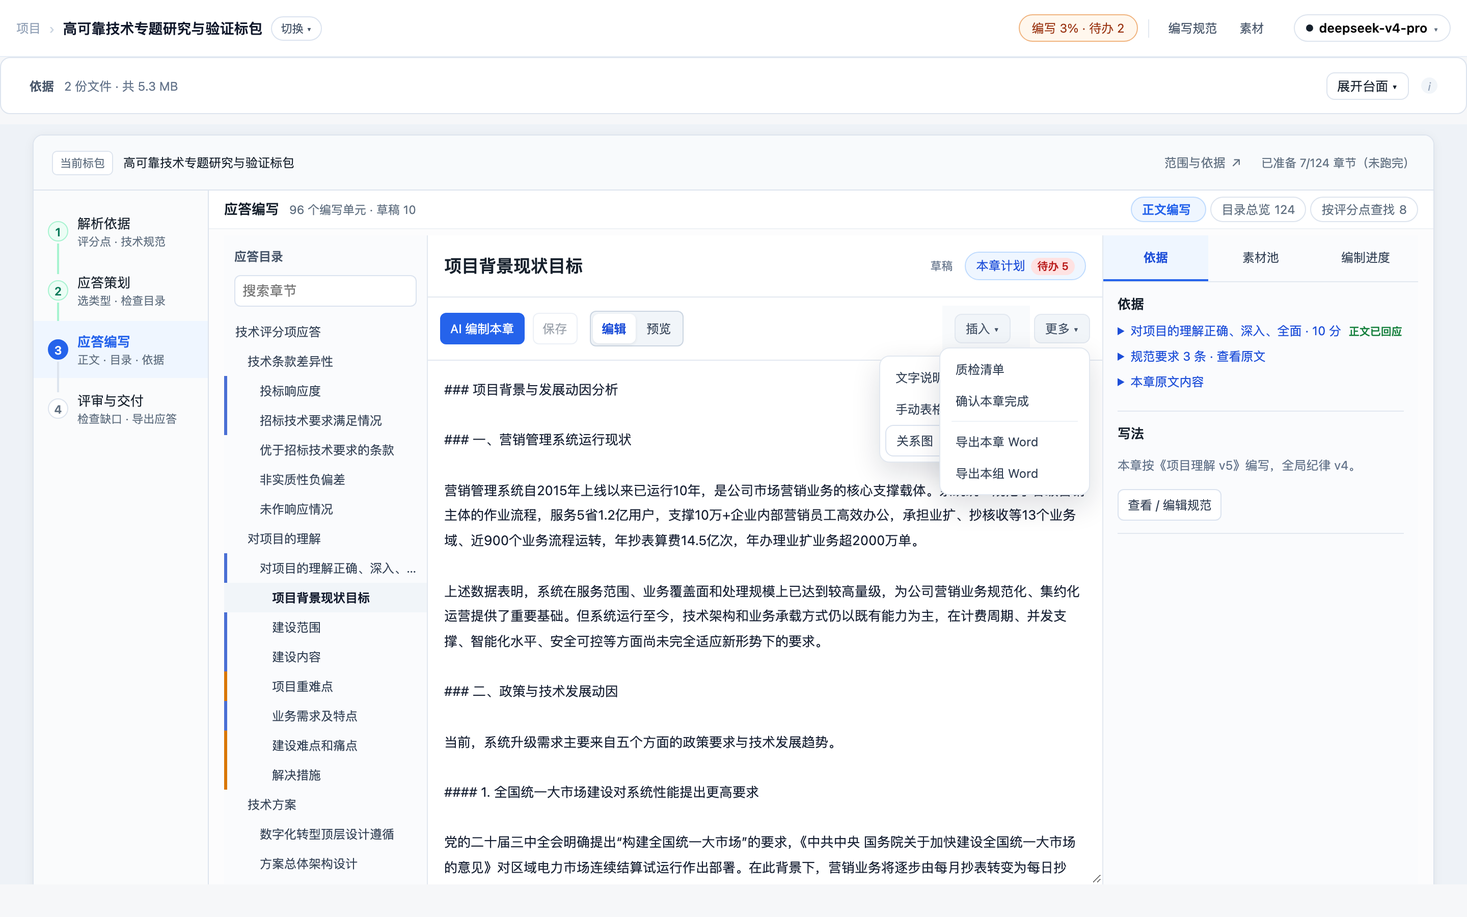
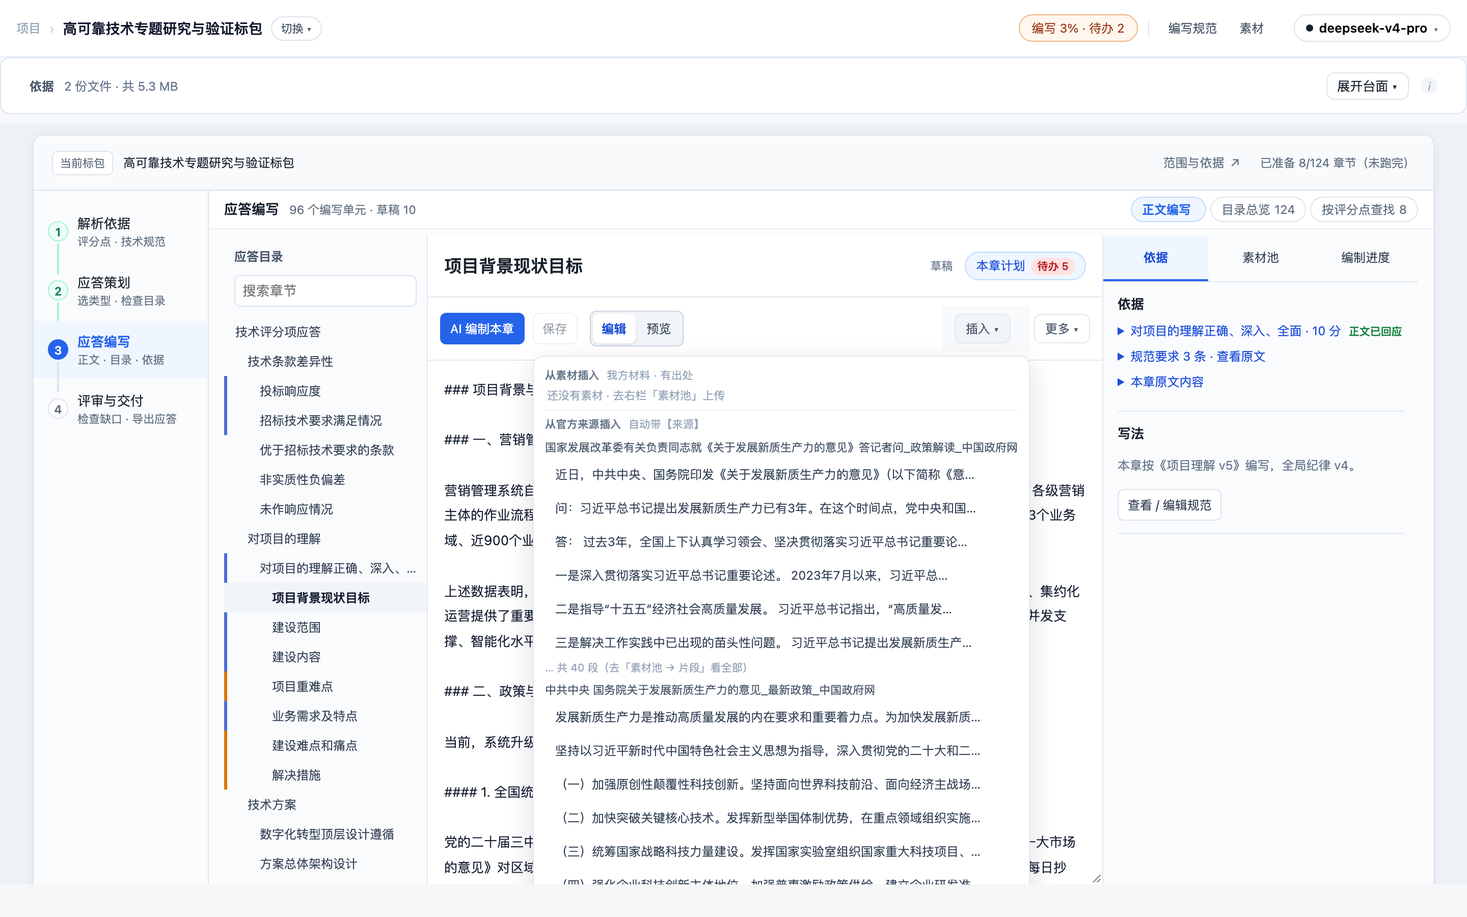
feat(P0): 插入菜单改为"按来源"—— 从素材 / 从官方来源 / 插入结构
按《插入功能-必要性与方式》方案实施 P0。

## 菜单重构（原来按内容类型：文字说明/手动表格/关系图）
```
插入 ▾
├─ 从素材插入        我方材料 · 有出处
│    每个素材 → [摘录·第N页] [图片]（未解析的显示"未解析"）
├─ 从官方来源插入    自动带【来源】
│    每条来源 → 最多 6 个片段按钮（正文开头 34 字 + 悬停看全文），
│    已选片段标 ★；显示"共 N 段，去素材池看全部"
└─ 插入结构          模板 · 需人工补齐
     对比表 / 响应表、关系图骨架
```

## 插入行为
- 光标处插入；**光标落在插入内容末尾**（不选中）
  —— 选中会导致下一次插入把上一次的内容替换掉（自检实测踩到）
- 从官方来源插入自动追加 `【来源：标题（机构 · 日期）】`
- 插图用 `:::figure 图注` 体裁（导出可编号）
- 素材未解析 / 无图片 / 片段为空 → 明确提示，不静默失败
- 插入后 toast 提示可 ⌘Z 撤销

## 自检（33 条）
- 插入菜单按来源分组（素材/官方来源/结构）
- 从官方来源插入片段（自动带【来源】）：正文变长且含「【来源」
- 插入结构模板可用（表格）：正文继续变长、状态无报错

`bash scripts/check.sh` → 33/33 通过（v313）

Changed region(s): [[0.3438, 0.3733, 0.75, 0.9644], [0.7812, 0.1556, 0.8438, 0.1867]]

diff --git a/frontend/assets/mode-outline.js b/frontend/assets/mode-outline.js
@@ -2,9 +2,9 @@
    抽成模块的目的：两段内联脚本有 90 个同名顶层标识符 + 18 个重复 DOM id，
    同页拼接必然互相覆盖；各自成为一个模块即各自一个作用域。
    本文件在抽取时**未改任何逻辑**。 */
-import {mountChapterStudio, exportDocument} from './chapter-studio.mjs?v=20261016-v310';
-import { api } from './api.js?v=20261016-v310';
-import { specContentHtml } from './spec-content.mjs?v=20261016-v310';
+import {mountChapterStudio, exportDocument} from './chapter-studio.mjs?v=20261016-v313';
+import { api } from './api.js?v=20261016-v313';
+import { specContentHtml } from './spec-content.mjs?v=20261016-v313';
 // 顶栏（项目名旁边那行「第 N 轮 · ...」）由共享壳 workspace.js 渲染。这里要把它
 // 改成**页面自己的真实状态**：checkpoint 的 stage 在准备中/编写准备完成后都停在
 // outline_review，只看它的话顶栏永远显示"待确认目录"（实测就是这个问题）。
@@ -12,7 +12,7 @@ import { workspace, renderWorkspaceChrome,
          REQUIREMENT_ROLES, SELECTABLE_REQUIREMENT_ROLES, ROLE_LABEL_SHARED, ROLE_HINT_SHARED,
          roleMismatchWarning, inferRoleFromFilename,
          uiAlert, uiConfirm,
-       } from './workspace.js?v=20261016-v310';
+       } from './workspace.js?v=20261016-v313';
 import { resolvePackageScope, buildOutlineTree, isOrphanedRun, activeStages, instructionDirty, newOutlineId, outlineSubtreeRange,
          moveOutlineNode, indentOutlineNode, outdentOutlineNode,
          moveManyOutlineNodes, indentManyOutlineNodes, outdentManyOutlineNodes,
@@ -31,7 +31,7 @@ import { resolvePackageScope, buildOutlineTree, isOrphanedRun, activeStages, ins
          // 章节状态投影：素材库 / 方案编辑 / 覆盖矩阵共用同一份判定（不再各算各的）
          chapterStage, chapterBadges, filterChapters, chapterFilterCounts,
          CHAPTER_STAGE_LABELS, evidenceByChapter, expandVisibleWithAncestors
-       } from './workspace-model.mjs?v=20261016-v310';
+       } from './workspace-model.mjs?v=20261016-v313';
 
 const params = new URLSearchParams(location.search);
 // projectId **只取数字部分**：链接被误写成 `?projectId=19**(Cmd+Shift+R)`（连带说明文字）
@@ -180,7 +180,7 @@ document.head.insertAdjacentHTML('beforeend', `<style>
 // 左栏章节树：行标记与「方案编辑」共用一份（2026-10-13 左栏归一）。
 // 此前两侧各拼一套（.ot-row / .doc-outline-item），数据投影虽已共用，
 // 但标记重复维护会漂移（workspace-model.mjs 注释里记着 "#undefined" 那次）。
-import { chapterNode, chapterBadgesHtml as sharedBadgesHtml } from './chapter-tree.mjs?v=20261016-v310';
+import { chapterNode, chapterBadgesHtml as sharedBadgesHtml } from './chapter-tree.mjs?v=20261016-v313';
 const blocksEmpty = document.getElementById('blocks-empty');
 const sidebarToc  = document.getElementById('sidebar-toc');
 const ringFill    = document.getElementById('ring-fill');

diff --git a/frontend/workbench.html b/frontend/workbench.html
@@ -4,7 +4,7 @@
     <meta charset="UTF-8" />
     <meta name="viewport" content="width=device-width, initial-scale=1.0" />
     <title>智能应标 · 材料撰写</title>
-    <link rel="stylesheet" href="./assets/styles.css?v=20261016-v310" />
+    <link rel="stylesheet" href="./assets/styles.css?v=20261016-v313" />
     <style>
       /* Outline pane */
       .workspace-shell .outline-pane {
@@ -2055,7 +2055,7 @@
     </style>
     <!-- Markdown 渲染（用于预览模式） -->
     <script src="https://cdn.jsdelivr.net/npm/marked@12.0.0/marked.min.js"></script>
-  <link rel="stylesheet" href="./assets/workspace.css?v=20261016-v310" />
+  <link rel="stylesheet" href="./assets/workspace.css?v=20261016-v313" />
   </head>
   <body>
   <script>
@@ -2500,18 +2500,18 @@
       </main>
     </div>
 
-    <script type="module" src="./assets/workbench.js?v=20261016-v310"></script>
+    <script type="module" src="./assets/workbench.js?v=20261016-v313"></script>
     <script type="module">
-      import { GenerateSession } from './assets/generate-session.js?v=20261016-v310';
-      import { initContextPanel } from './assets/context-panel.js?v=20261016-v310';
-      import { api } from './assets/api.js?v=20261016-v310';
-      import { request as workspaceRequest, refreshWorkspace, workspace, confirmChapterAction } from './assets/workspace.js?v=20261016-v310';
+      import { GenerateSession } from './assets/generate-session.js?v=20261016-v313';
+      import { initContextPanel } from './assets/context-panel.js?v=20261016-v313';
+      import { api } from './assets/api.js?v=20261016-v313';
+      import { request as workspaceRequest, refreshWorkspace, workspace, confirmChapterAction } from './assets/workspace.js?v=20261016-v313';
       // 提炼字段枚举 + 素材依据的**渲染片段**与 project-init 共用（见 workspace-model.mjs 注释）：
       // 性质徽标与出处行的实现在那边只有一份，两个页面不再各写一套（曾经因此漂移出
       // "每行显示 #undefined"）。
       import { CONSTRAINT_LEVELS, constraintLevelLabel,
                evidenceKindBadgeHtml, evidenceSourceLineHtml, evidenceSnippet,
-               chapterStage, CHAPTER_STAGE_LABELS } from './assets/workspace-model.mjs?v=20261016-v310';
+               chapterStage, CHAPTER_STAGE_LABELS } from './assets/workspace-model.mjs?v=20261016-v313';
       initContextPanel();
 
       // 素材抽屉：默认收起（写作时右栏就是正文本身），点工具栏「素材 n ▸」打开；
@@ -5575,6 +5575,6 @@
       })();
     })();
     </script>
-  <script type="module" src="./assets/workspace.js?v=20261016-v310"></script>
+  <script type="module" src="./assets/workspace.js?v=20261016-v313"></script>
   </body>
 </html>

diff --git a/frontend/three-mode.html b/frontend/three-mode.html
@@ -4,9 +4,9 @@
     <meta charset="UTF-8" />
     <meta name="viewport" content="width=device-width, initial-scale=1.0" />
     <title>AiBidding · Workbench Init State</title>
-    <link rel="stylesheet" href="./assets/response-outline.css?v=20261016-v310" />
-    <link rel="stylesheet" href="./assets/chapter-studio.css?v=20261016-v310" />
-    <link rel="stylesheet" href="./assets/styles.css?v=20261016-v310" />
+    <link rel="stylesheet" href="./assets/response-outline.css?v=20261016-v313" />
+    <link rel="stylesheet" href="./assets/chapter-studio.css?v=20261016-v313" />
+    <link rel="stylesheet" href="./assets/styles.css?v=20261016-v313" />
     <style>
 /* ── 三栏布局 ── */
 .init-layout {
@@ -3350,8 +3350,8 @@ body[data-view="matching"] .match-detail { display: block; }
   body[data-view="editor"] .ws-editor-layout { flex: 1 1 auto; min-height: 0; }
 
 </style>
-  <link rel="stylesheet" href="./assets/workspace.css?v=20261016-v310" />
-  <link rel="stylesheet" href="./assets/ui.css?v=20261016-v310" />   <!-- 组件最小集：最后加载以统一历史类名 -->
+  <link rel="stylesheet" href="./assets/workspace.css?v=20261016-v313" />
+  <link rel="stylesheet" href="./assets/ui.css?v=20261016-v313" />   <!-- 组件最小集：最后加载以统一历史类名 -->
   </head>
   <body data-view="outline" data-modes="outline,matching,editor">
     <div class="workspace-shell">
@@ -4062,16 +4062,16 @@ body[data-view="matching"] .match-detail { display: block; }
         if (skel) skel.hidden = true;
       }, 6000);
     </script>
-    <script type="module" src="./assets/workbench.js?v=20261016-v310"></script>
-    <script type="module" src="./assets/mode-dispatch.js?v=20261016-v310"></script>
+    <script type="module" src="./assets/workbench.js?v=20261016-v313"></script>
+    <script type="module" src="./assets/mode-dispatch.js?v=20261016-v313"></script>
     <!-- 动态 import：失败可捕获并上报（静态 import 失败无法捕获，会让整页静默不执行） -->
     <script type="module">
-      for (const mod of ['./assets/mode-outline.js?v=20261016-v310',
-                        './assets/mode-editor.js?v=20261016-v310']) {
+      for (const mod of ['./assets/mode-outline.js?v=20261016-v313',
+                        './assets/mode-editor.js?v=20261016-v313']) {
         try { await import(mod); }
         catch (err) { window.__bootErrors.push(`模块加载失败 ${mod}：${err?.message || err}`); }
       }
     </script>
-  <script type="module" src="./assets/workspace.js?v=20261016-v310"></script>
+  <script type="module" src="./assets/workspace.js?v=20261016-v313"></script>
   </body>
 </html>

diff --git a/frontend/project-init.html b/frontend/project-init.html
@@ -4,7 +4,7 @@
     <meta charset="UTF-8" />
     <meta name="viewport" content="width=device-width, initial-scale=1.0" />
     <title>AiBidding · Workbench Init State</title>
-    <link rel="stylesheet" href="./assets/styles.css?v=20261016-v310" />
+    <link rel="stylesheet" href="./assets/styles.css?v=20261016-v313" />
     <style>
 /* ── 三栏布局 ── */
 .init-layout {
@@ -889,7 +889,7 @@ body[data-view="matching"] .match-detail { display: block; }
   background: #eff6ff;
 }
     </style>
-  <link rel="stylesheet" href="./assets/workspace.css?v=20261016-v310" />
+  <link rel="stylesheet" href="./assets/workspace.css?v=20261016-v313" />
   </head>
   <body data-view="outline">
   <script>
@@ -1097,14 +1097,14 @@ body[data-view="matching"] .match-detail { display: block; }
     </div>
 
     <script type="module">
-import { api } from './assets/api.js?v=20261016-v310';
+import { api } from './assets/api.js?v=20261016-v313';
 // 顶栏（项目名旁边那行「第 N 轮 · ...」）由共享壳 workspace.js 渲染。这里要把它
 // 改成**页面自己的真实状态**：checkpoint 的 stage 在提炼中/提炼完成后都停在
 // outline_review，只看它的话顶栏永远显示"待确认目录"（实测就是这个问题）。
 import { workspace, renderWorkspaceChrome,
          REQUIREMENT_ROLES, ROLE_LABEL_SHARED, ROLE_HINT_SHARED,
          roleMismatchWarning, inferRoleFromFilename,
-       } from './assets/workspace.js?v=20261016-v310';
+       } from './assets/workspace.js?v=20261016-v313';
 import { buildOutlineTree, isOrphanedRun, activeStages, instructionDirty, newOutlineId, outlineSubtreeRange,
          moveOutlineNode, indentOutlineNode, outdentOutlineNode,
          removeOutlineSubtree, insertSiblingAfter, insertChildOf,
@@ -1118,7 +1118,7 @@ import { buildOutlineTree, isOrphanedRun, activeStages, instructionDirty, newOut
          // 章节状态投影：素材库 / 方案编辑 / 覆盖矩阵共用同一份判定（不再各算各的）
          chapterStage, chapterBadges, filterChapters, chapterFilterCounts,
          CHAPTER_STAGE_LABELS, evidenceByChapter, expandVisibleWithAncestors
-       } from './assets/workspace-model.mjs?v=20261016-v310';
+       } from './assets/workspace-model.mjs?v=20261016-v313';
 
 const params = new URLSearchParams(location.search);
 const projectId = params.get('projectId');
@@ -4957,6 +4957,6 @@ bindMatchDetailActions();
   });
 })();
     </script>
-  <script type="module" src="./assets/workspace.js?v=20261016-v310"></script>
+  <script type="module" src="./assets/workspace.js?v=20261016-v313"></script>
   </body>
 </html>

diff --git a/frontend/assets/mode-editor.js b/frontend/assets/mode-editor.js
@@ -2,13 +2,13 @@
    抽成模块的目的：两段内联脚本有 90 个同名顶层标识符 + 18 个重复 DOM id，
    同页拼接必然互相覆盖；各自成为一个模块即各自一个作用域。
    本文件在抽取时**未改任何逻辑**。 */
-import { GenerateSession } from './generate-session.js?v=20261016-v310';
+import { GenerateSession } from './generate-session.js?v=20261016-v313';
 // 左栏章节树：与「要求与大纲 / 素材库」共用一份行标记（2026-10-13 左栏归一）
-import { chapterNode, renderChapterTree } from './chapter-tree.mjs?v=20261016-v310';
-import { initContextPanel } from './context-panel.js?v=20261016-v310';
-import { api } from './api.js?v=20261016-v310';
+import { chapterNode, renderChapterTree } from './chapter-tree.mjs?v=20261016-v313';
+import { initContextPanel } from './context-panel.js?v=20261016-v313';
+import { api } from './api.js?v=20261016-v313';
 import { request as workspaceRequest, refreshWorkspace, workspace, confirmChapterAction ,
-         uiAlert, uiConfirm} from './workspace.js?v=20261016-v310';
+         uiAlert, uiConfirm} from './workspace.js?v=20261016-v313';
 
 // ── 本章要求 bar 的应答条目缓存 ──────────────────────────────
 // 必须**声明在模块最前面**：它原本声明在文件中部，而模块之间存在循环依赖
@@ -21,7 +21,7 @@ let responseItemsByBlock = {};
 // "每行显示 #undefined"）。
 import { CONSTRAINT_LEVELS, constraintLevelLabel,
          evidenceKindBadgeHtml, evidenceSourceLineHtml, evidenceSnippet,
-         chapterStage, CHAPTER_STAGE_LABELS } from './workspace-model.mjs?v=20261016-v310';
+         chapterStage, CHAPTER_STAGE_LABELS } from './workspace-model.mjs?v=20261016-v313';
 initContextPanel();
 
 // 素材抽屉：默认收起（写作时右栏就是正文本身），点工具栏「素材 n ▸」打开；

diff --git a/frontend/project-intake.html b/frontend/project-intake.html
@@ -3,7 +3,7 @@
 <head>
   <meta charset="utf-8"><meta name="viewport" content="width=device-width,initial-scale=1">
   <title>项目准备 · 智能应标</title>
-  <link rel="stylesheet" href="/assets/styles.css?v=20261016-v310">
+  <link rel="stylesheet" href="/assets/styles.css?v=20261016-v313">
   <style>
     body{margin:0;background:#f7f8fa;color:#17202a;font-family:Inter,"PingFang SC",sans-serif}
     .shell{max-width:1120px;margin:auto;padding:28px}.top{display:flex;justify-content:space-between;align-items:center;margin-bottom:22px}
@@ -32,4 +32,4 @@
 </main>
 <dialog id="package-editor"><form id="package-form"><h2>编辑投标对象</h2><p class="hint">仅在识别有误时修改；名称可留空。</p><input id="edit-id" type="hidden"><label>对象类型<select id="edit-kind"><option value="package">标包</option><option value="section">标段</option><option value="target">独立标的</option></select></label><label>所属标的编号<input id="edit-target"></label><label>标包 / 标段编号<input id="edit-code"></label><label>完整名称<input id="edit-name" maxlength="300"></label><div class="actions"><button type="button" id="cancel-edit">取消</button><button class="primary" type="submit">保存</button></div></form></dialog>
 <dialog id="merge-dialog"><form id="merge-form"><h2>合并重复候选</h2><p class="hint">将当前候选的证据合并到以下保留项。已有运行成果的候选不能合并，保留项需要重新核验。</p><input id="merge-source" type="hidden"><label>保留的投标对象<select id="merge-destination"></select></label><div class="actions"><button type="button" id="cancel-merge">取消</button><button type="submit" class="primary">确认合并</button></div></form></dialog>
-<script type="module" src="/assets/intake.js?v=20261016-v310"></script></body></html>
+<script type="module" src="/assets/intake.js?v=20261016-v313"></script></body></html>

diff --git a/frontend/review.html b/frontend/review.html
@@ -4,16 +4,16 @@
     <meta charset="UTF-8" />
     <meta name="viewport" content="width=device-width, initial-scale=1.0" />
     <title>AiBidding · 质量检查</title>
-    <link rel="stylesheet" href="./assets/styles.css?v=20261016-v310" />
-    <link rel="stylesheet" href="./assets/review.css?v=20261016-v310" />
-  <link rel="stylesheet" href="./assets/workspace.css?v=20261016-v310" />
+    <link rel="stylesheet" href="./assets/styles.css?v=20261016-v313" />
+    <link rel="stylesheet" href="./assets/review.css?v=20261016-v313" />
+  <link rel="stylesheet" href="./assets/workspace.css?v=20261016-v313" />
   <style>
     /* 返回作业面板：与项目名同级的次级入口 */
     .back-to-panel { margin-left:10px; font-size:12.5px; color:var(--muted); text-decoration:none;
       border:1px solid var(--line); border-radius:8px; padding:3px 10px; }
     .back-to-panel:hover { color:var(--text); background:var(--bg-2); }
   </style>
-  <link rel="stylesheet" href="./assets/ui.css?v=20261016-v310" />   <!-- 组件最小集：最后加载以统一历史类名 -->
+  <link rel="stylesheet" href="./assets/ui.css?v=20261016-v313" />   <!-- 组件最小集：最后加载以统一历史类名 -->
   </head>
   <body>
     <div class="workspace-shell">
@@ -96,7 +96,7 @@
       </main>
     </div>
 
-    <script type="module" src="./assets/review.js?v=20261016-v310"></script>
-  <script type="module" src="./assets/workspace.js?v=20261016-v310"></script>
+    <script type="module" src="./assets/review.js?v=20261016-v313"></script>
+  <script type="module" src="./assets/workspace.js?v=20261016-v313"></script>
   </body>
 </html>

diff --git a/frontend/assets/chapter-studio.css b/frontend/assets/chapter-studio.css
@@ -529,3 +529,21 @@
   pointer-events: none; }
 [data-cs="status"].is-on { opacity: 1; transform: translateX(-50%) translateY(0); }
 [data-cs="status"].is-error { background: #7f1d1d; }
+
+/* 插入菜单：按来源分组 */
+.cs-insert-menu { min-width: 280px; max-height: 70vh; overflow: auto; }
+.cs-ins-group { margin: 6px 6px 4px; font-size: 10.5px; font-weight: 600; color: #64748b; letter-spacing: .2px; }
+.cs-ins-group span { font-weight: 400; color: #94a3b8; margin-left: 4px; }
+.cs-ins-item { display: flex; align-items: center; gap: 6px; padding: 3px 6px; }
+.cs-ins-name { flex: 1; min-width: 0; font-size: 11.5px; color: #334155; overflow: hidden; text-overflow: ellipsis; white-space: nowrap; }
+.cs-ins-acts { display: flex; gap: 4px; flex-shrink: 0; }
+.cs-ins-acts button, .cs-ins-seg { font: inherit; font-size: 11px; padding: 2px 8px; border: 1px solid #dbe3ef; background: #fff;
+  border-radius: 999px; color: #1d4ed8; cursor: pointer; }
+.cs-ins-acts button:hover, .cs-ins-seg:hover { background: #eff6ff; }
+.cs-ins-acts i { font-size: 10.5px; color: #94a3b8; font-style: normal; }
+.cs-ins-src { padding: 3px 6px; }
+.cs-ins-src-name { margin: 0 0 3px; font-size: 11px; color: #475569; overflow: hidden; text-overflow: ellipsis; white-space: nowrap; }
+.cs-ins-seg { display: block; width: 100%; text-align: left; margin-bottom: 2px; border-radius: 6px; }
+.cs-ins-more { margin: 2px 0 0; font-size: 10.5px; color: #94a3b8; }
+.cs-ins-empty { margin: 2px 8px 6px; font-size: 11px; color: #94a3b8; }
+.cs-ins-sep { height: 1px; background: #eef2f7; margin: 6px 6px; }

diff --git a/frontend/assets/workbench.js b/frontend/assets/workbench.js
@@ -1,12 +1,12 @@
-import {workspace, subscribe, refreshWorkspace, workspaceUrl, confirmChapterAction, openDialog, showHistory, statusLabels, esc} from './workspace.js?v=20261016-v310';
+import {workspace, subscribe, refreshWorkspace, workspaceUrl, confirmChapterAction, openDialog, showHistory, statusLabels, esc} from './workspace.js?v=20261016-v313';
 // 章节状态/依据徽标与「素材库」共用一份投影（同一棵目录树，四个环节都一样）
-import {chapterBadges, parseEvidence} from './workspace-model.mjs?v=20261016-v310';
+import {chapterBadges, parseEvidence} from './workspace-model.mjs?v=20261016-v313';
 // 左栏章节树：**三个模式共用一份**行标记（2026-10-13 归一）。
 // 此前编辑器侧自己拼 `.doc-outline-item`、大纲侧拼 `.ot-row`，是两套实现；
 // 数据投影本就共用（workspace-model），这里把标记也收敛掉。
 // 行上仍保留 `doc-outline-item` 类与 data-block-id 属性，兼容 mode-editor.js 里
 // 既有的 10 处选择器（改动面最小化）。
-import {chapterNode, renderChapterTree, chapterBadgesHtml} from './chapter-tree.mjs?v=20261016-v310';
+import {chapterNode, renderChapterTree, chapterBadgesHtml} from './chapter-tree.mjs?v=20261016-v313';
 // 左栏树的**唯一宿主**：由 mode-dispatch 在模式切换时把 #blocks-list 搬到当前模式的
 // 左栏位置。归一前这里是 `.doc-outline`，与大纲侧 `#blocks-list` 各渲一棵（实测
 // .ot-node 有 120 个 = 两棵各 60）。动态解析而不是加载时捕获，就是为了让宿主可搬。

diff --git a/frontend/projects.html b/frontend/projects.html
@@ -4,7 +4,7 @@
     <meta charset="UTF-8" />
     <meta name="viewport" content="width=device-width, initial-scale=1.0" />
     <title>智能应标 · 项目列表</title>
-    <link rel="stylesheet" href="./assets/styles.css?v=20261016-v310" />
+    <link rel="stylesheet" href="./assets/styles.css?v=20261016-v313" />
     <style>
       /* ── 页头 ── */
       .app-header {
@@ -613,7 +613,7 @@
       .btn-api-save:disabled { opacity: 0.45; cursor: default; }
       .btn-api-save:not(:disabled):hover { opacity: 0.88; }
     </style>
-    <link rel="stylesheet" href="./assets/ui.css?v=20261016-v310" />   <!-- 组件最小集：最后加载以统一历史类名 -->
+    <link rel="stylesheet" href="./assets/ui.css?v=20261016-v313" />   <!-- 组件最小集：最后加载以统一历史类名 -->
 </head>
   <body>
     <!-- 页头 -->
@@ -745,7 +745,7 @@
     </div>
 
     <script type="module">
-      import { api } from './assets/api.js?v=20261016-v310';
+      import { api } from './assets/api.js?v=20261016-v313';
 
       // ── 状态 ──
       const reqFiles = []; // {file, name, size, ext}

diff --git a/frontend/diff-review.html b/frontend/diff-review.html
@@ -4,8 +4,8 @@
     <meta charset="UTF-8" />
     <meta name="viewport" content="width=device-width, initial-scale=1.0" />
     <title>AiBidding · Diff Review</title>
-    <link rel="stylesheet" href="./assets/styles.css?v=20261016-v310" />
-  <link rel="stylesheet" href="./assets/workspace.css?v=20261016-v310" />
+    <link rel="stylesheet" href="./assets/styles.css?v=20261016-v313" />
+  <link rel="stylesheet" href="./assets/workspace.css?v=20261016-v313" />
   </head>
   <body>
     <div class="workspace-shell">
@@ -98,7 +98,7 @@
     </div>
 
     <script type="module">
-      import { api } from './assets/api.js?v=20261016-v310';
+      import { api } from './assets/api.js?v=20261016-v313';
 
       const params    = new URLSearchParams(location.search);
       const projectId = params.get('projectId');
@@ -326,6 +326,6 @@
 
       loadRevisions();
     </script>
-  <script type="module" src="./assets/workspace.js?v=20261016-v310"></script>
+  <script type="module" src="./assets/workspace.js?v=20261016-v313"></script>
   </body>
 </html>

diff --git a/frontend/assets/workspace.js b/frontend/assets/workspace.js
@@ -1,11 +1,11 @@
-import {projectChapters, summarize, statusLabels, stageLabels, activeStages, runtimeStages, isOrphanedRun, isExtractDone, diffHtml, escapeHtml as esc} from './workspace-model.mjs?v=20261016-v310';
+import {projectChapters, summarize, statusLabels, stageLabels, activeStages, runtimeStages, isOrphanedRun, isExtractDone, diffHtml, escapeHtml as esc} from './workspace-model.mjs?v=20261016-v313';
 export {statusLabels, esc};
 // 材料角色体系再导出：project-init 的角色下拉与"分类纠错提示"都从这里取
 export {
   REQUIREMENT_ROLES, SELECTABLE_REQUIREMENT_ROLES, SOURCE_ROLES, ALL_MATERIAL_ROLES,
   ROLE_LABEL as ROLE_LABEL_SHARED, ROLE_HINT as ROLE_HINT_SHARED,
   isRequirementRole, inferRoleFromFilename, roleMismatchWarning,
-} from './material-roles.mjs?v=20261016-v310';
+} from './material-roles.mjs?v=20261016-v313';
 export async function request(url, options) {
   const response = await fetch(url, options);
   const data = await response.json().catch(() => ({}));
